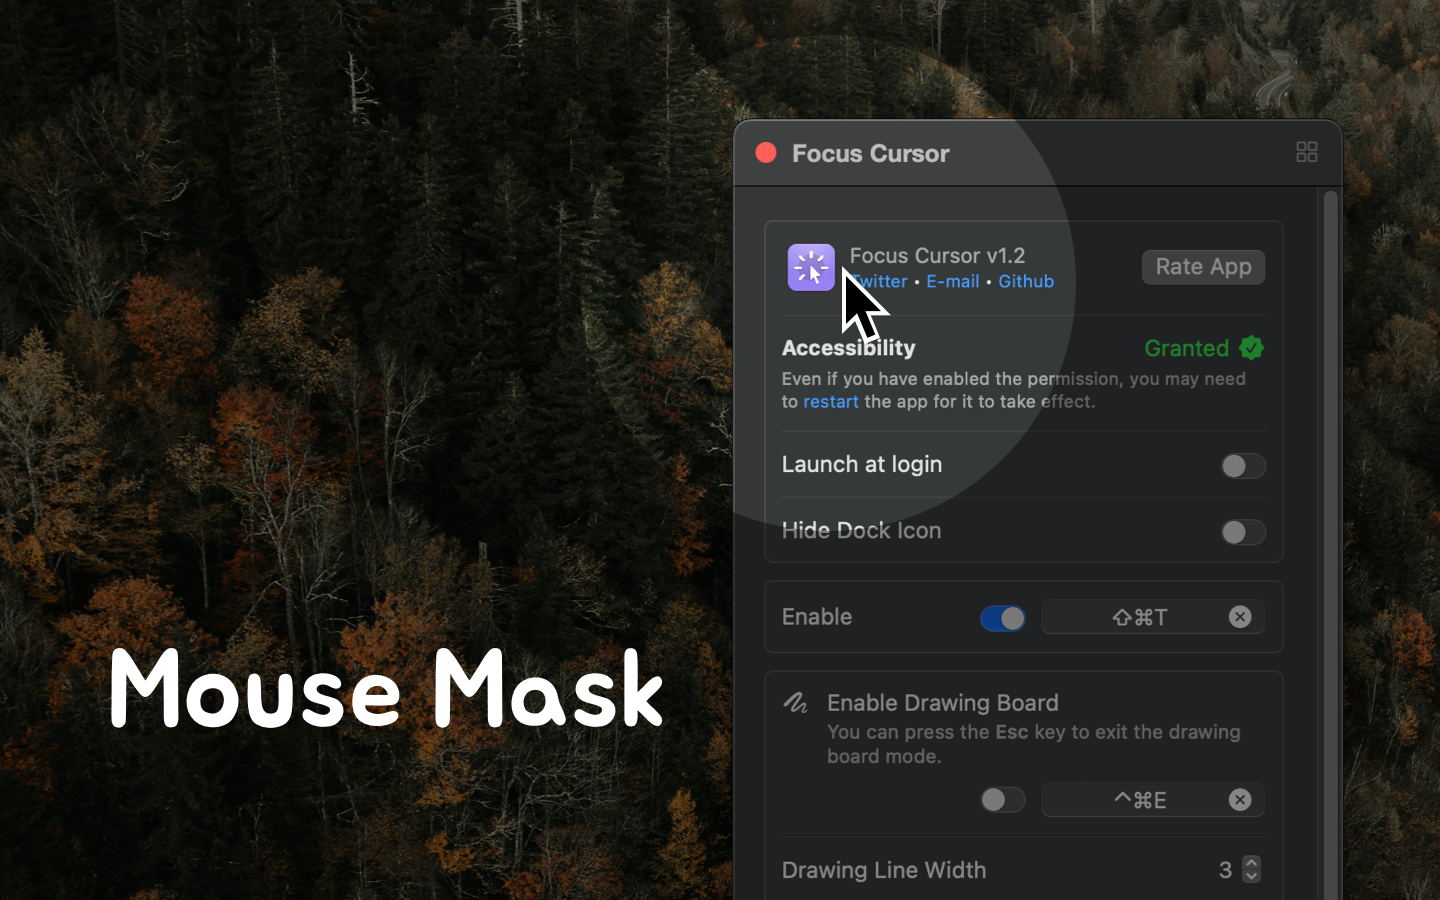
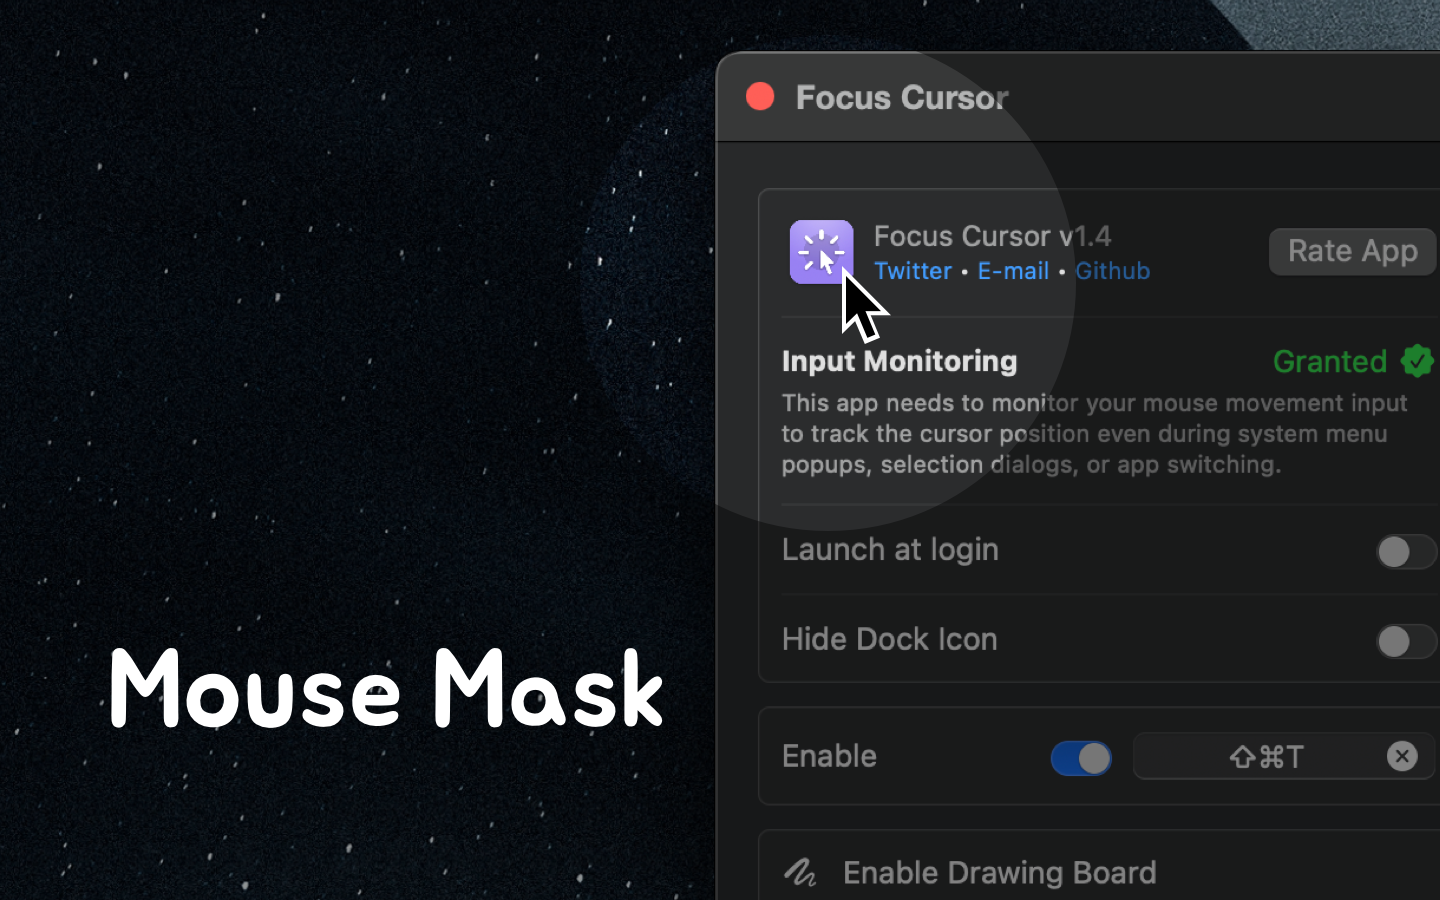
doc: update screenshots. 3d9ed3f8de74b00bd36d00348be21f08a0983947

diff --git a/CHANGELOG.html b/CHANGELOG.html
@@ -38,6 +38,12 @@
       <markdown-style theme-auto-switch-disabled="">
         <p align="right" style="float: right; bottom: -36px; position: relative;"><a href="./CHANGELOG.zh.html">中文</a></p><!--rehype:style=float: right; bottom: -36px; position: relative;-->
         <h1 id="changelog"><a aria-hidden="true" tabindex="-1" href="#changelog" class="anchor"><span class="icon icon-link"></span></a>Changelog</h1><a target="_blank" href="https://apps.apple.com/app/videoer/6743495172" title="Videoer for macOS"><img alt="Videoer AppStore" src="https://jaywcjlove.github.io/sb/download/macos.svg" height="51"></a>
+        <h2 id="v140"><a aria-hidden="true" tabindex="-1" href="#v140" class="anchor"><span class="icon icon-link"></span></a><a href="https://github.com/jaywcjlove/focus-cursor/releases/tag/v1.4.0">v1.4.0</a></h2>
+        <ol>
+          <li>fix: Fix mouse position issue when using system menu or switching apps</li>
+          <li>feat: Add setting for line disappear duration</li>
+          <li>feat: Add setting to switch mouse highlight types</li>
+        </ol>
         <h2 id="v130"><a aria-hidden="true" tabindex="-1" href="#v130" class="anchor"><span class="icon icon-link"></span></a><a href="https://github.com/jaywcjlove/focus-cursor/releases/tag/v1.3.0">v1.3.0</a></h2>
         <ol>
           <li>feat: add screen line drawing and annotation feature</li>

diff --git a/CHANGELOG.zh.html b/CHANGELOG.zh.html
@@ -38,6 +38,12 @@
       <markdown-style theme-auto-switch-disabled="">
         <p align="right" style="float: right; bottom: -36px; position: relative;"><a href="./CHANGELOG.html">English</a></p><!--rehype:style=float: right; bottom: -36px; position: relative;-->
         <h1 id="更新日志"><a aria-hidden="true" tabindex="-1" href="#更新日志" class="anchor"><span class="icon icon-link"></span></a>更新日志</h1><a target="_blank" href="https://apps.apple.com/app/videoer/6743495172" title="Videoer for macOS"><img alt="Videoer AppStore" src="https://jaywcjlove.github.io/sb/download/macos.svg" height="51"></a>
+        <h2 id="v140"><a aria-hidden="true" tabindex="-1" href="#v140" class="anchor"><span class="icon icon-link"></span></a><a href="https://github.com/jaywcjlove/focus-cursor/releases/tag/v1.4.0">v1.4.0</a></h2>
+        <ol>
+          <li>fix: 修复在系统菜单或应用切换时鼠标位置异常的问题</li>
+          <li>feat: 新增线条自动消失时间设置</li>
+          <li>feat: 新增鼠标高亮类型切换功能</li>
+        </ol>
         <h2 id="v130"><a aria-hidden="true" tabindex="-1" href="#v130" class="anchor"><span class="icon icon-link"></span></a><a href="https://github.com/jaywcjlove/focus-cursor/releases/tag/v1.3.0">v1.3.0</a></h2>
         <ol>
           <li>feat: 新增屏幕画线标记功能</li>
